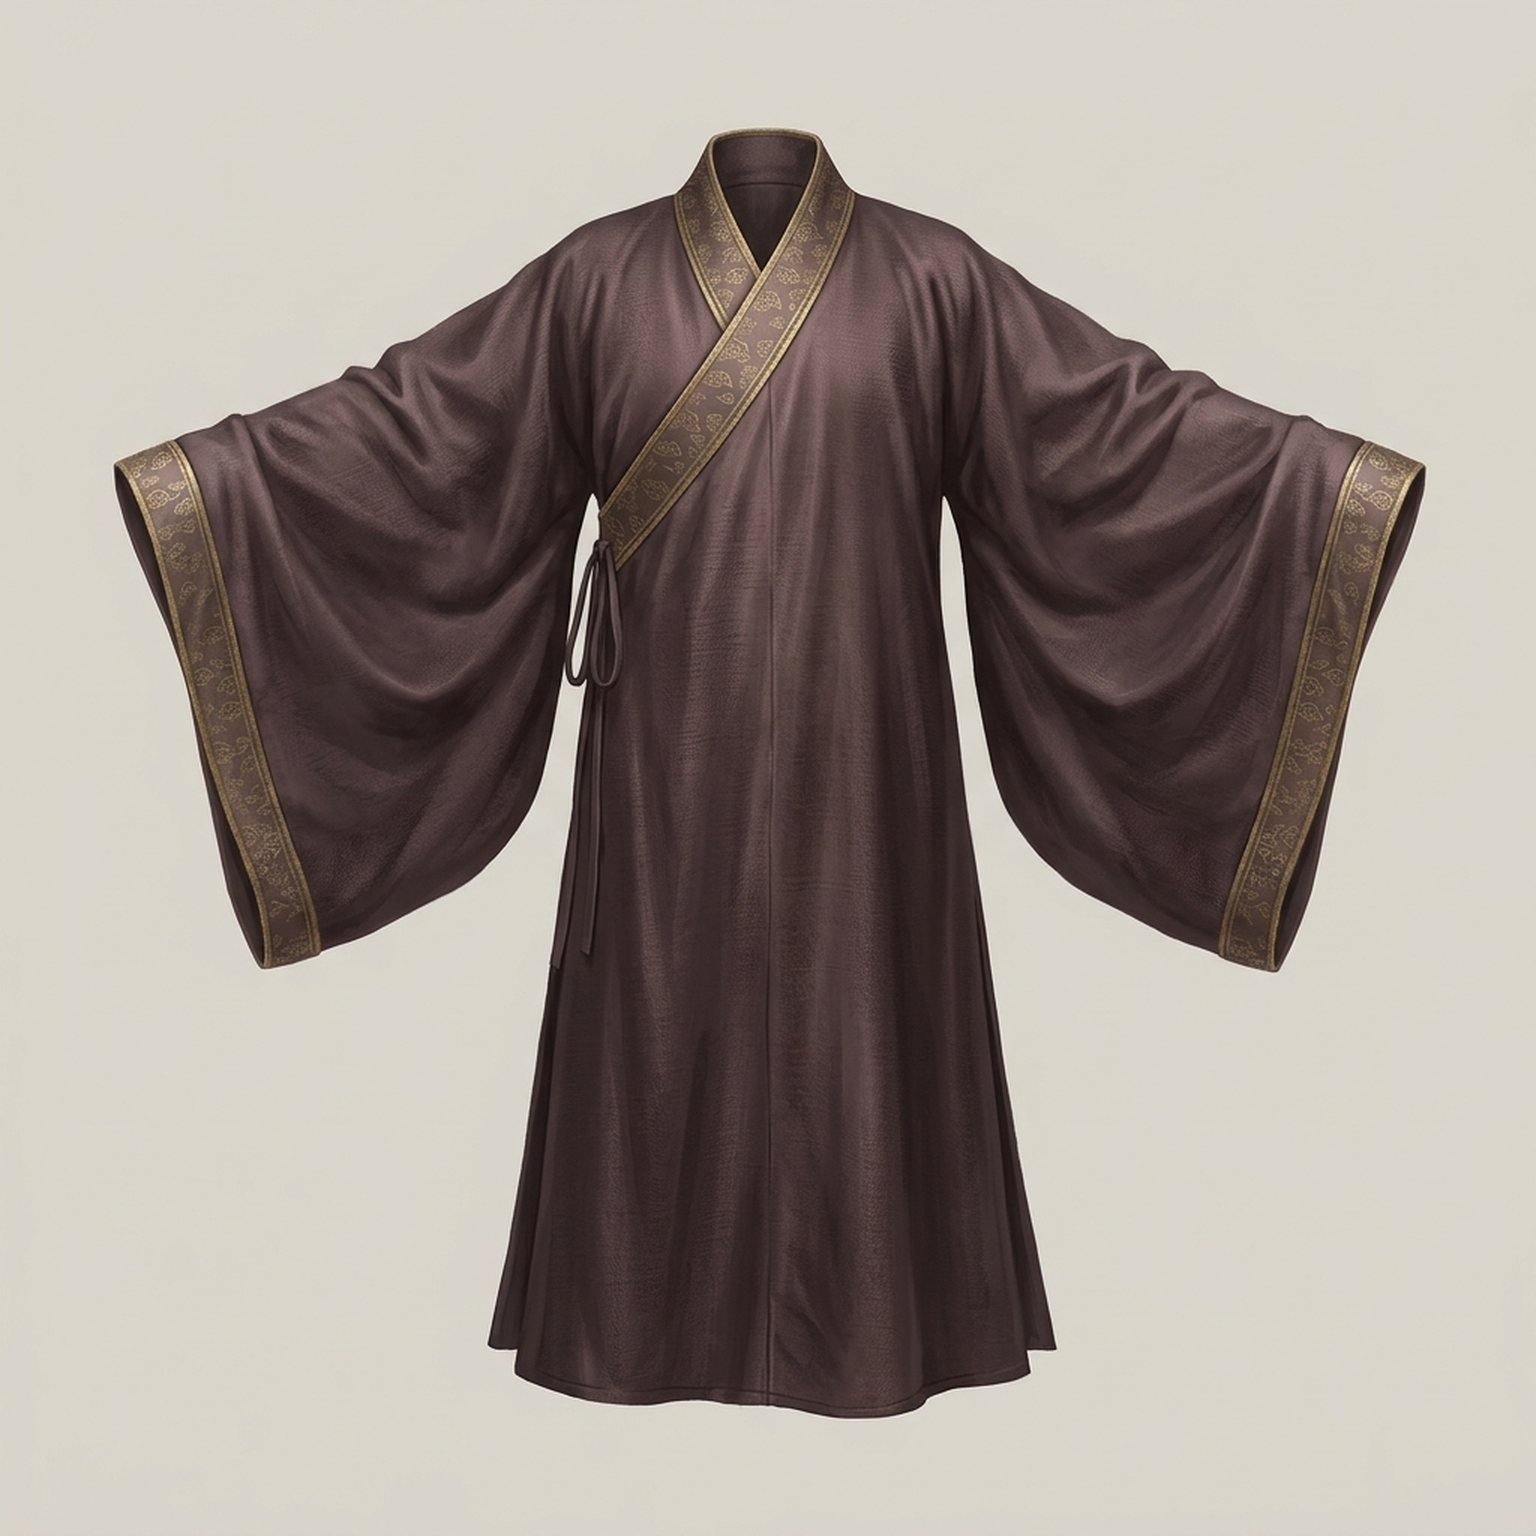
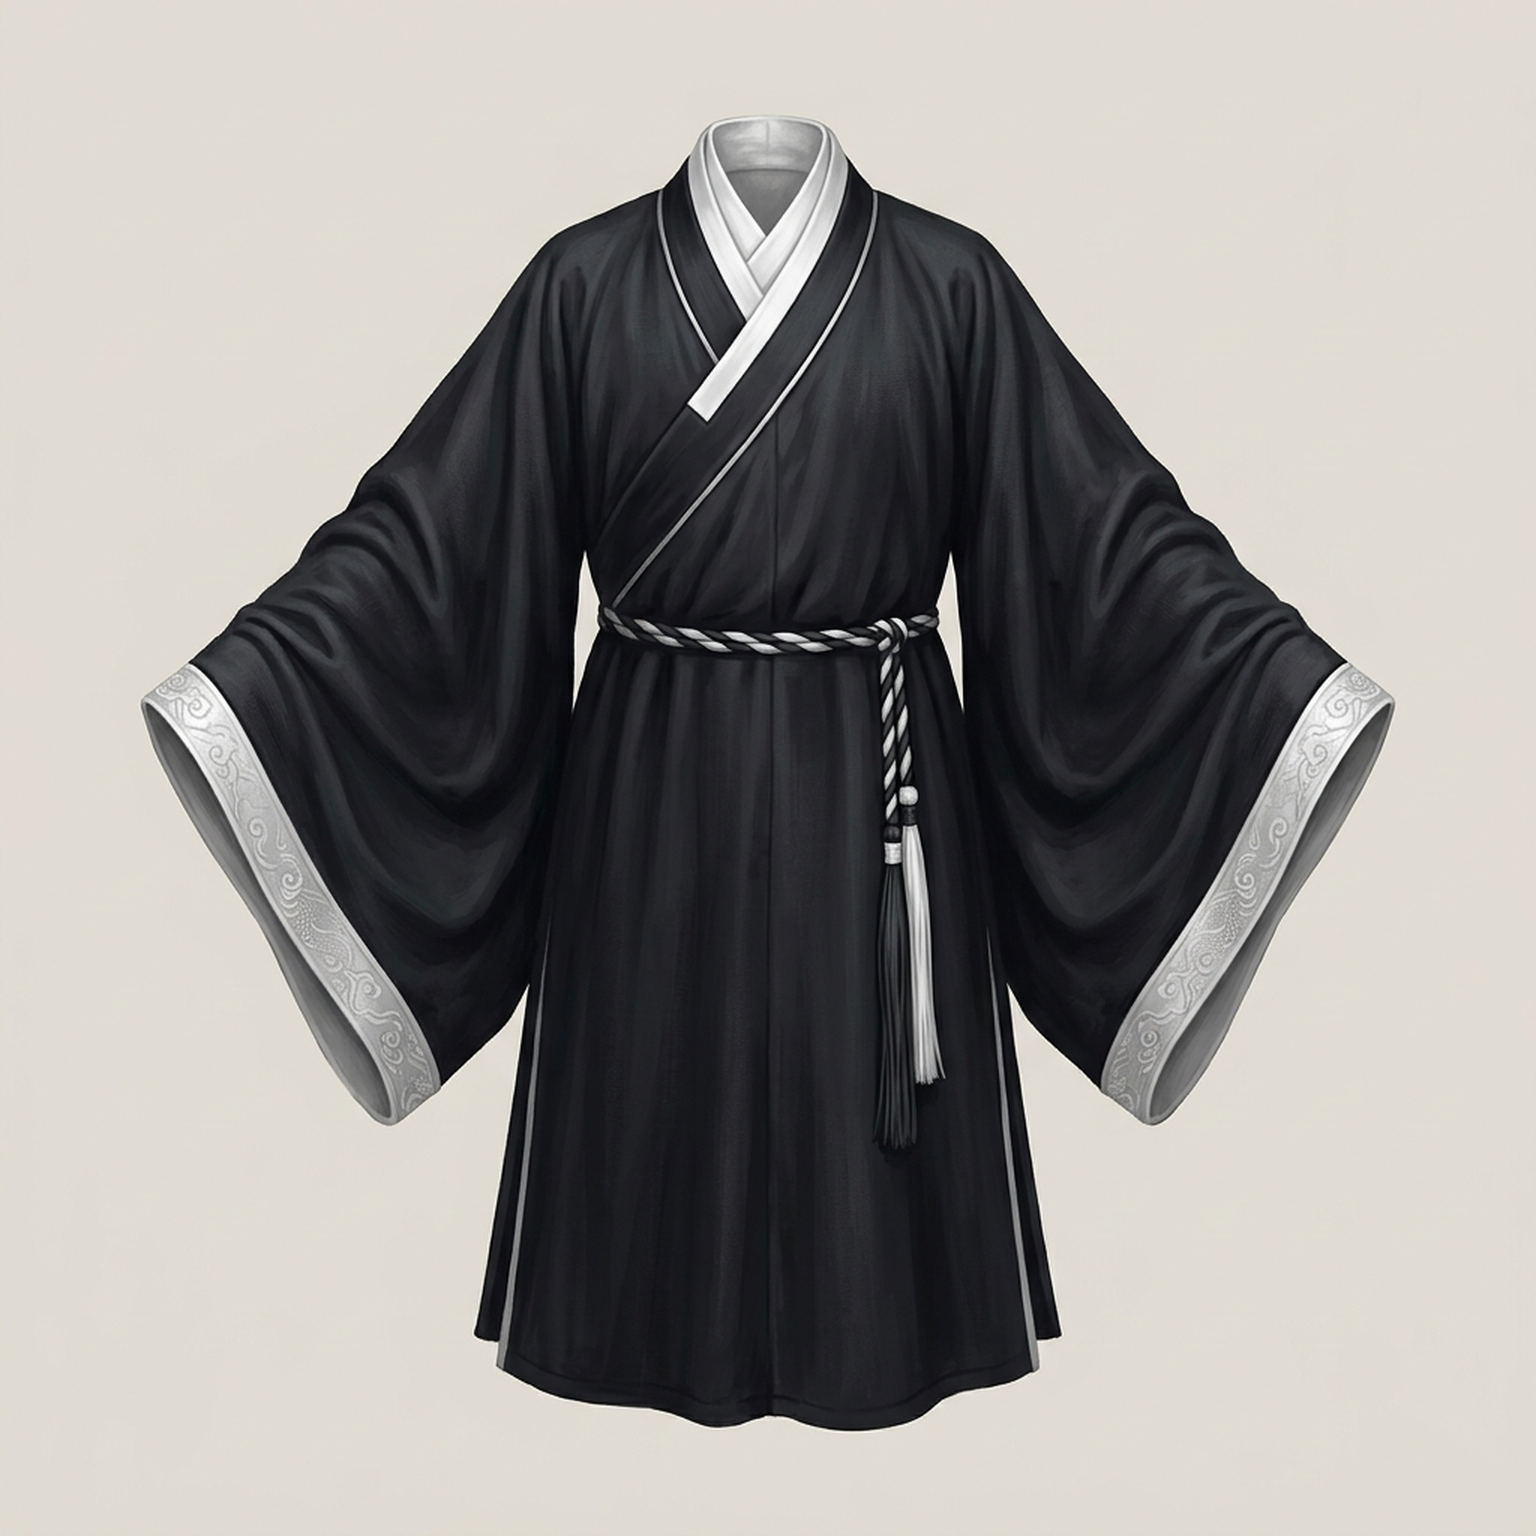
feat(items): adopt black-and-white Taoist robe for tianshipao per author decision (AR-96)
- Ingest black-and-white Taiji Taoist robe for eq_tianshipao
- Update eq_tianshipao prompt, manifest, and apparel catalog to xuán-black with pure white water collar
- Record AR-96 author decision in author-requirements.md

diff --git a/docs/design/catalog/items-clothing.md b/docs/design/catalog/items-clothing.md
@@ -189,7 +189,7 @@
 | `eq_yuanjianghongxiuyuankuanxiupao_nv` | 元绛红绣缘宽袖袍·女 | 衣物·衫裙 | 地中 | 元；出现书界 ch04；**（原创扩展）**；形制／色系依据：故宫《蒙元时期的罟罟冠》 https://www.dpm.org.cn/explode/others/210566.html；女性绛红袍色从首服借色，袍面偏好（待考）；八朝素白通用为原创设计，女服逐朝实证（待考） | **（原创扩展）**依蒙元贵妇袍形语汇演成绛红女式宽袖袍，大襟右衽、长摆侧衩与完整内层相合。细密花纹绣缘落袍缘，收存前理顺宽袖；贵妇廓形推广为原创，绛红袍面与素白常服实证待考，同档换色同值。 | `grade=8; slot=body; armorWeight=light; wearer=female; defOutK=0.16; defInK=0.12; eva=2xG` | `def=62` | 元女款，主色绛红；大襟右衽宽袖直袍，长摆与侧衩；贵妇廓形推广至六档为原创扩展，红色袍面偏好（待考）；主色绛红，细密花缘绣（原创工艺分档），主体材质按形制保持；女性绛红袍色从首服借色，袍面偏好（待考）；单件平展，内外层合为一件衣物；无人物无文字无自发光；丝织袍面与细密绣缘，工艺只按档位落袍缘，内层完整，不另加官阶构件 **（原创扩展）** |
 | `eq_yuansubaijingxiukuanxiupao_nv` | 元素白精绣宽袖袍·女 | 衣物·衫裙 | 地上 | 元；出现书界 ch04；**（原创扩展）**；形制／色系依据：故宫《蒙元时期的罟罟冠》 https://www.dpm.org.cn/explode/others/210566.html；女性绛红袍色从首服借色，袍面偏好（待考）；八朝素白通用为原创设计，女服逐朝实证（待考） | **（原创扩展）**依蒙元贵妇袍形语汇演成素白女式宽袖袍，大襟右衽、长摆侧衩与完整内层相合。精织双丝细绣缘落袍缘，收存前理顺宽袖；贵妇廓形推广为原创，绛红袍面与素白常服实证待考，同档换色同值。 | `grade=9; slot=body; armorWeight=light; wearer=female; defOutK=0.16; defInK=0.12; eva=2xG` | `def=67` | 元女款，主色素白；大襟右衽宽袖直袍，长摆与侧衩；贵妇廓形推广至六档为原创扩展，红色袍面偏好（待考）；主色素白，精织双丝细绣缘（原创工艺分档），主体材质按形制保持；女性绛红袍色从首服借色，袍面偏好（待考）；单件平展，内外层合为一件衣物；无人物无文字无自发光；精织丝面与双丝细绣缘，工艺只按档位落袍缘，内层完整，不另加官阶构件 **（原创扩展）** |
 | `eq_yuanjianghongjingxiukuanxiupao_nv` | 元绛红精绣宽袖袍·女 | 衣物·衫裙 | 地上 | 元；出现书界 ch04；**（原创扩展）**；形制／色系依据：故宫《蒙元时期的罟罟冠》 https://www.dpm.org.cn/explode/others/210566.html；女性绛红袍色从首服借色，袍面偏好（待考）；八朝素白通用为原创设计，女服逐朝实证（待考） | **（原创扩展）**依蒙元贵妇袍形语汇演成绛红女式宽袖袍，大襟右衽、长摆侧衩与完整内层相合。精织双丝细绣缘落袍缘，收存前理顺宽袖；贵妇廓形推广为原创，绛红袍面与素白常服实证待考，同档换色同值。 | `grade=9; slot=body; armorWeight=light; wearer=female; defOutK=0.16; defInK=0.12; eva=2xG` | `def=67` | 元女款，主色绛红；大襟右衽宽袖直袍，长摆与侧衩；贵妇廓形推广至六档为原创扩展，红色袍面偏好（待考）；主色绛红，精织双丝细绣缘（原创工艺分档），主体材质按形制保持；女性绛红袍色从首服借色，袍面偏好（待考）；单件平展，内外层合为一件衣物；无人物无文字无自发光；精织丝面与双丝细绣缘，工艺只按档位落袍缘，内层完整，不另加官阶构件 **（原创扩展）** |
-| `eq_tianshipao` | 天师袍 | 衣物·仪袍 | 地中 | 元；出现书界 ch04；**（原创扩展）**；天师道系仪服候选，未核到金庸修订版同名装备；龙虎山不据此新建已确认门派，穿着不授予身份 | **（原创扩展）**天师袍为元代天师道系仪服候选，紫褐右衽长仪袍配完整内衫，窄金织缘与小云纹收束袍面。收存时理顺襟缘，不画符咒文字；修订版同名原著物待考，默认原创轻衣，穿着不授门派身份或法术抗性。 | `grade=8; slot=body; armorWeight=light; defOutK=0.16; defInK=0.12; eva=2xG` | `def=62` | 元通用款，主色紫褐；紫褐右衽长仪袍、窄金织缘与小云纹，内衫完整，无符咒文字，不画人物；单件完整陈列，无人物无字无自发光；游戏分档与数值为原创扩展 **（原创扩展）** |
+| `eq_tianshipao` | 天师袍 | 衣物·仪袍 | 地中 | 元；出现书界 ch04；**（原创扩展）**；天师道系仪服，依据明代《大明会典·道服》正统常服“青玄色大袖交领袍，素白水领”与道家太极阴阳相济之意（AR-96 作者定稿）；龙虎山不据此新建已确认门派，穿着不授予身份 | **（原创扩展）**天师袍为道家天师正统玄门仪袍，玄黑大袖交领长袍配双层纯白水领，素白暗云纹收束袍面，腰系黑白双色丝绦。收存时理顺襟缘，不画符咒文字；契合武侠江湖道骨仙风之共识。 | `grade=8; slot=body; armorWeight=light; defOutK=0.16; defInK=0.12; eva=2xG` | `def=62` | 玄门道家款，主色玄黑配素白水领；玄黑交领大袖长仪袍，双层工整纯白水领，袖口素白暗云纹，腰系黑白双色丝绦，无符咒文字，不画人物；单件完整陈列，无人物无字无自发光；游戏分档与数值为原创扩展 **（原创扩展）** |
 | `eq_mingbenbaisucaizhiduo_nan` | 明本白素裁直裰·男 | 衣物·袍服 | 黄中 | 明；出现书界 ch05/ch06；**（原创扩展）**；形制／色系依据：故宫《明代官员服饰研究》 https://www.dpm.org.cn/Uploads/File/2019/11/25/u5ddbb3f9e989e.pdf；官仪服色不直接等同江湖常服；八朝素白通用为原创设计，女服逐朝实证（待考）；公服／女服用色并参《明史》卷67《舆服三·公服／士庶妻冠服》 https://zh.wikisource.org/zh-hans/明史/卷67 | **（原创扩展）**据明代服饰语汇演成本白男式直裰，交领右衽长衣保留后身中缝和两侧开衩。素面实用缝边落衣缘，行旅先理好系结；同档换色同值，不作曳撒腰褶，不以绯红授予官阶。 | `grade=2; slot=body; armorWeight=light; wearer=male; defOutK=0.16; defInK=0.12; eva=2xG` | `def=31` | 明男款，主色本白；交领右衽长衣，后身中缝、两侧开衩；不加曳撒的腰下褶；主色本白，素面与实用缝边（原创工艺分档），主体材质按形制保持；官仪服色不直接等同江湖常服；单件平展，内外层合为一件衣物；无人物无文字无自发光；麻丝织面，内层完整，工艺只落衣缘与领缘，不增官阶构件 **（原创扩展）** |
 | `eq_mingxuansucaizhiduo_nan` | 明玄素裁直裰·男 | 衣物·袍服 | 黄中 | 明；出现书界 ch05/ch06；**（原创扩展）**；形制／色系依据：故宫《明代官员服饰研究》 https://www.dpm.org.cn/Uploads/File/2019/11/25/u5ddbb3f9e989e.pdf；官仪服色不直接等同江湖常服；八朝素白通用为原创设计，女服逐朝实证（待考）；公服／女服用色并参《明史》卷67《舆服三·公服／士庶妻冠服》 https://zh.wikisource.org/zh-hans/明史/卷67 | **（原创扩展）**据明代服饰语汇演成玄男式直裰，交领右衽长衣保留后身中缝和两侧开衩。素面实用缝边落衣缘，行旅先理好系结；同档换色同值，不作曳撒腰褶，不以绯红授予官阶。 | `grade=2; slot=body; armorWeight=light; wearer=male; defOutK=0.16; defInK=0.12; eva=2xG` | `def=31` | 明男款，主色玄；交领右衽长衣，后身中缝、两侧开衩；不加曳撒的腰下褶；主色玄，素面与实用缝边（原创工艺分档），主体材质按形制保持；官仪服色不直接等同江湖常服；单件平展，内外层合为一件衣物；无人物无文字无自发光；麻丝织面，内层完整，工艺只落衣缘与领缘，不增官阶构件 **（原创扩展）** |
 | `eq_mingfeihongsucaizhiduo_nan` | 明绯红素裁直裰·男 | 衣物·袍服 | 黄中 | 明；出现书界 ch05/ch06；**（原创扩展）**；形制／色系依据：故宫《明代官员服饰研究》 https://www.dpm.org.cn/Uploads/File/2019/11/25/u5ddbb3f9e989e.pdf；官仪服色不直接等同江湖常服；八朝素白通用为原创设计，女服逐朝实证（待考）；公服／女服用色并参《明史》卷67《舆服三·公服／士庶妻冠服》 https://zh.wikisource.org/zh-hans/明史/卷67 | **（原创扩展）**据明代服饰语汇演成绯红男式直裰，交领右衽长衣保留后身中缝和两侧开衩。素面实用缝边落衣缘，行旅先理好系结；同档换色同值，不作曳撒腰褶，不以绯红授予官阶。 | `grade=2; slot=body; armorWeight=light; wearer=male; defOutK=0.16; defInK=0.12; eva=2xG` | `def=31` | 明男款，主色绯红；交领右衽长衣，后身中缝、两侧开衩；不加曳撒的腰下褶；主色绯红，素面与实用缝边（原创工艺分档），主体材质按形制保持；官仪服色不直接等同江湖常服；单件平展，内外层合为一件衣物；无人物无文字无自发光；麻丝织面，内层完整，工艺只落衣缘与领缘，不增官阶构件 **（原创扩展）** |

diff --git a/docs/decisions/author-requirements.md b/docs/decisions/author-requirements.md
@@ -30,7 +30,8 @@
   - AR-92：护心镜调优；
   - AR-93：3D 高魅力男女主角身材比例调整（男≥8头身/180~185cm、女8~9头身/165~170cm）；
   - AR-94：男主身高与平肩调整、脸部质量修复、Rig/动作与Skill沉淀；
-  - AR-95：3D 头部质量攻坚（额头发丝粘连融化、耳侧悬空面片、下唇残缺、颅顶过大头重感根治方案）。
+  - AR-95：3D 头部质量攻坚（额头发丝粘连融化、耳侧悬空面片、下唇残缺、颅顶过大头重感根治方案）；
+  - AR-96：天师袍颜色与形制考据（历史朝廷赐紫 vs 武侠太极黑白双方案供作者选定）。
 - ⏸ 搁置：AR-79。3D 全量重做按 AR-85 排在 M1 跑通之后，见 TODO。
 - ↪ 被后续取代：
   - AR-67、AR-68 由 AR-83 取代；
@@ -1898,4 +1899,25 @@
      4. 采用 Image-to-Model（单图 A-pose，同 generic_f 成功先例），避免多视图非正交求交导致的削脸破面。
    - 方案 B（3D GLB 几何后处理）：在导出后通过 Python 脚本或自动化工具识别并剔除面部外围连通度低、非流形的游离杂面，局部平滑额头顶点。
    - 方案 C（DCC 轻量清理）：在 Blender 中 Edit Mode 圈选删除额头与耳侧浮面，1 分钟即可完成无损修复。
+
+
+## AR-96 · 天师袍颜色与形制考据（历史朝廷赐紫 vs 武侠太极黑白）（2026-10-05 约 08:00）
+
+作者原文（2026-10-05 约 08:00 PDT，逐字照录）：
+
+> 天师袍 不是黑白色的吗？有历史参考吗？
+
+协调者口径与历史考据：
+1. **历史典制考据（天师法衣实物与文献）**：
+   - 道教传统科仪法服体系（《正一威仪经》《三洞奉道科戒仪》《太上黄箓斋仪》）中，法服严格依品级区分，“天师圣主用黄/紫，高功法师用紫/绛（大红）”；
+   - 唐代（高祖、玄宗）起朝廷对嗣汉天师与高道行“赐紫”（赐二品紫袍法服、金丝织锦紫衣）；宋代（宋真宗、宋仁宗）亦赐天师紫衣；
+   - 元代（对应名录 `eq_tianshipao` 的时代设定）：元世祖、成宗封三十六代天师张宗演、三十八代天师张与材掌江南道教，封二品，赐“玄冠紫服、金丝织锦法袍”；故宫藏元代《玄教大宗师吴全节画像》与泰山岱庙元代天师像中，大宗师均身着大袖对襟织金锦缎紫袍或大红法衣；
+   - 明代传世实物：江西龙虎山嗣汉天师府珍藏万历皇帝御赐“大红织金天师法衣”（刺绣八卦、五岳真形图、日月星辰）与“香色缂丝紫金袍”；因此原名录据朝廷赐服与高功法服典制取了“紫褐色”。
+2. **民间武侠意象考据（黑白太极道袍）**：
+   - 道士日常正统常服（得罗、道袍）依《大明会典·道服》规定为“青玄色（纯黑/青黑）大袖交领袍，素木簪”，领口必定翻叠纯白“水领”（白领子），内衬素白单衣，足蹬白袜，天然形成“玄黑外袍 + 雪白水领白袜”的黑白鲜明对照；
+   - 道教以“太极两仪，阴阳相济”为最高图腾，民间传说、武侠小说（武当派玄袍白袜）及影视剧（仙侠道长、林正英天师袍）广泛将“黑白相间的大袖道袍”奉为道骨仙风与天师法服的最高审美共识。
+3. **落实与双方案供作者选定**：
+   - 方案 A（历史朝廷赐服/高功紫袍版）：元代正一天师受赐之紫褐丝缎大袖仪袍，窄金织云纹滚边，尊贵典雅；
+   - 方案 B（武侠正统太极/玄门黑白版，已出样）：玄黑色优质大袖交领长袍，翻叠双层雪白交领水领，素白暗云纹滚边，配黑白太极双色编绦，黑白分明，仙风道骨。
+   - 遵照作者裁定随时完成最终替换与名录字段同步。
 
